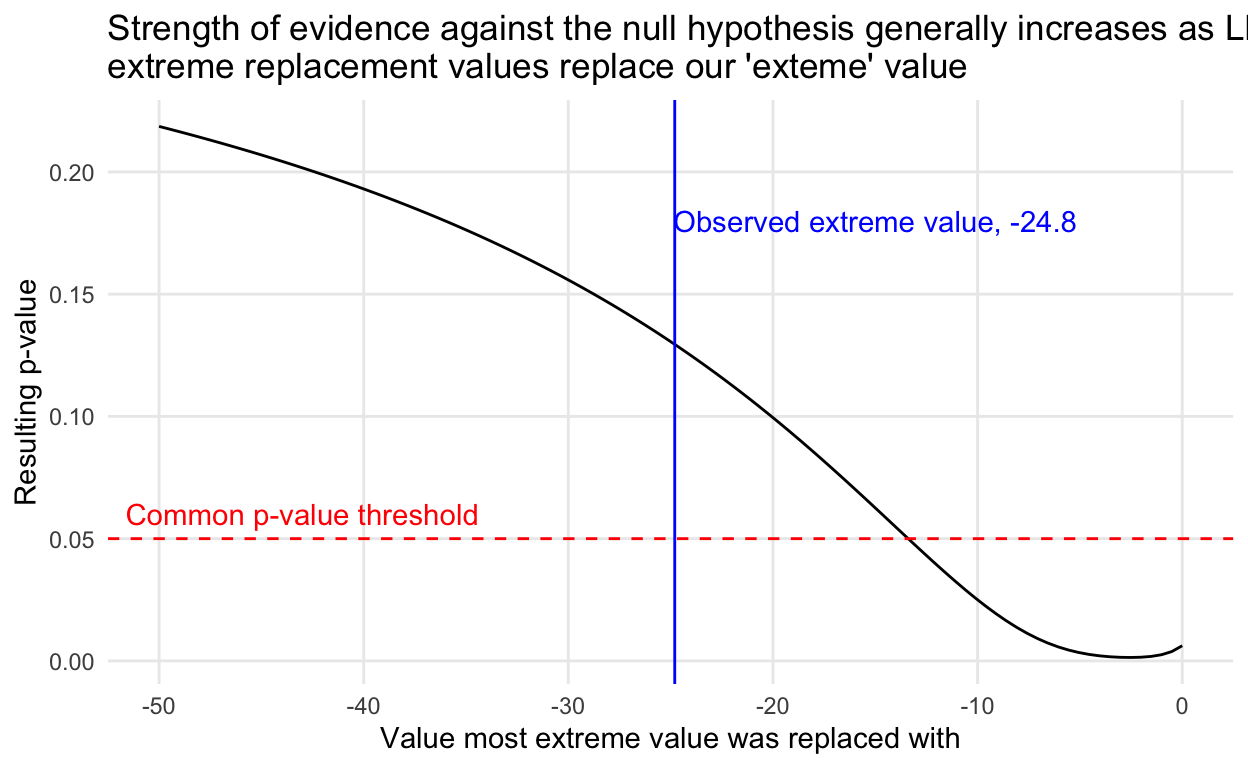
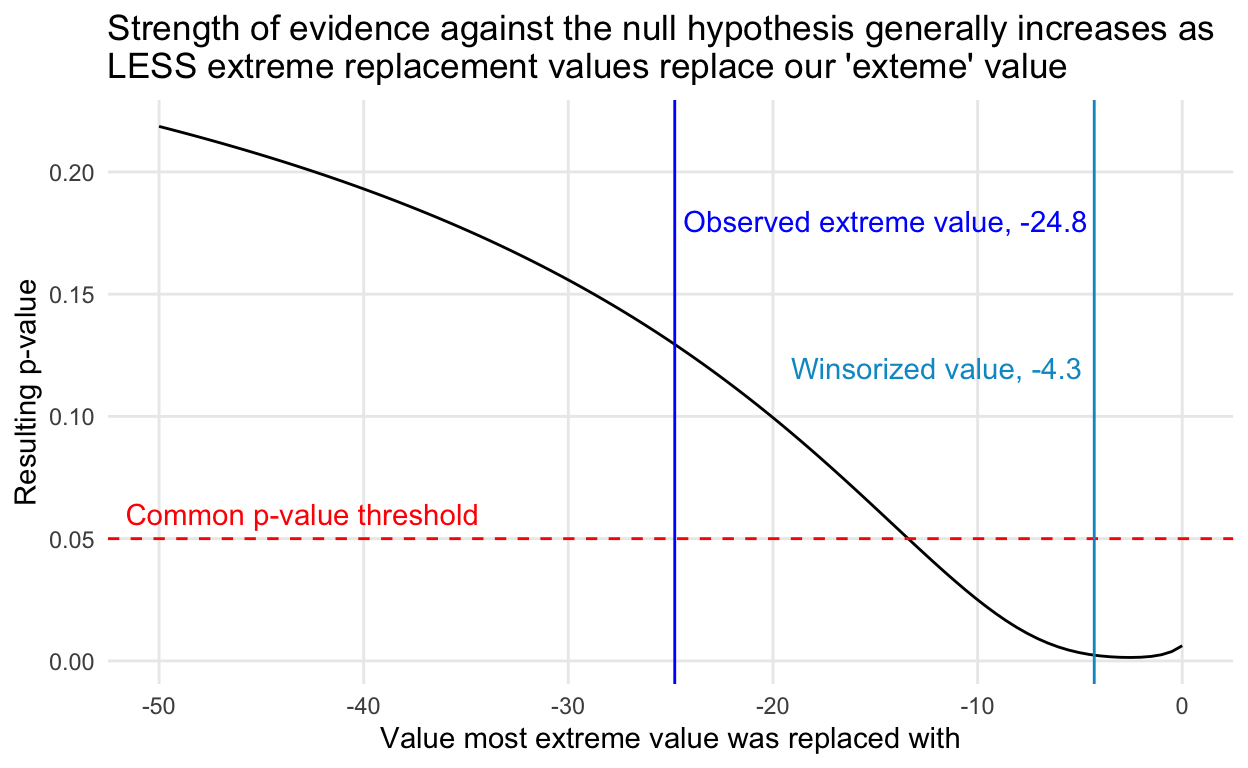
Update 2 on Chatfield

diff --git a/_posts/2021-09-26_chatfield490/chatfield490.html b/_posts/2021-09-26_chatfield490/chatfield490.html
@@ -116,7 +116,7 @@ code span.wa { color: #5e5e5e; font-style: italic; } /* Warning */
   <!--/radix_placeholder_rmarkdown_metadata-->
   
   <script type="text/json" id="radix-resource-manifest">
-  {"type":"character","attributes":{},"value":["chatfield490_files/anchor-4.2.2/anchor.min.js","chatfield490_files/bowser-1.9.3/bowser.min.js","chatfield490_files/distill-2.2.21/template.v2.js","chatfield490_files/figure-html5/unnamed-chunk-11-1.png","chatfield490_files/figure-html5/unnamed-chunk-12-1.png","chatfield490_files/figure-html5/unnamed-chunk-6-1.png","chatfield490_files/header-attrs-2.10.1/header-attrs.js","chatfield490_files/jquery-3.6.0/jquery-3.6.0.js","chatfield490_files/jquery-3.6.0/jquery-3.6.0.min.js","chatfield490_files/jquery-3.6.0/jquery-3.6.0.min.map","chatfield490_files/kePrint-0.0.1/kePrint.js","chatfield490_files/lightable-0.0.1/lightable.css","chatfield490_files/popper-2.6.0/popper.min.js","chatfield490_files/tippy-6.2.7/tippy-bundle.umd.min.js","chatfield490_files/tippy-6.2.7/tippy-light-border.css","chatfield490_files/tippy-6.2.7/tippy.css","chatfield490_files/tippy-6.2.7/tippy.umd.min.js","chatfield490_files/webcomponents-2.0.0/webcomponents.js","images/mohamed-nohassi-odxB5oIG_iA-unsplash.jpg"]}
+  {"type":"character","attributes":{},"value":["chatfield490_files/anchor-4.2.2/anchor.min.js","chatfield490_files/bowser-1.9.3/bowser.min.js","chatfield490_files/distill-2.2.21/template.v2.js","chatfield490_files/figure-html5/unnamed-chunk-11-1.png","chatfield490_files/figure-html5/unnamed-chunk-12-1.png","chatfield490_files/figure-html5/unnamed-chunk-13-1.png","chatfield490_files/figure-html5/unnamed-chunk-6-1.png","chatfield490_files/header-attrs-2.10.1/header-attrs.js","chatfield490_files/jquery-3.6.0/jquery-3.6.0.js","chatfield490_files/jquery-3.6.0/jquery-3.6.0.min.js","chatfield490_files/jquery-3.6.0/jquery-3.6.0.min.map","chatfield490_files/kePrint-0.0.1/kePrint.js","chatfield490_files/lightable-0.0.1/lightable.css","chatfield490_files/popper-2.6.0/popper.min.js","chatfield490_files/tippy-6.2.7/tippy-bundle.umd.min.js","chatfield490_files/tippy-6.2.7/tippy-light-border.css","chatfield490_files/tippy-6.2.7/tippy.css","chatfield490_files/tippy-6.2.7/tippy.umd.min.js","chatfield490_files/webcomponents-2.0.0/webcomponents.js","images/mohamed-nohassi-odxB5oIG_iA-unsplash.jpg"]}
   </script>
   <!--radix_placeholder_navigation_in_header-->
   <!--/radix_placeholder_navigation_in_header-->
@@ -1830,7 +1830,11 @@ Winsorized
 <div class="layout-chunk" data-layout="l-body">
 <p><img src="chatfield490_files/figure-html5/unnamed-chunk-12-1.png" width="624" /></p>
 </div>
-<p><strong>Practice question:</strong> Can you calculate the exact value for the minimum standard deviation?</p>
+<p><strong>Practice question:</strong> Can you calculate the value for the minimum standard deviation?</p>
+<p>Another way to look at this is through the other side of the p-value coin, the good ol’ confidence interval.</p>
+<div class="layout-chunk" data-layout="l-body">
+<p><img src="chatfield490_files/figure-html5/unnamed-chunk-13-1.png" width="624" /></p>
+</div>
 <h1 id="in-case-you-want-to-play-more">In case you want to play more</h1>
 <div class="layout-chunk" data-layout="l-body">
 <div class="sourceCode">

diff --git a/docs/posts/2021-09-26_chatfield490/index.html b/docs/posts/2021-09-26_chatfield490/index.html
@@ -129,7 +129,7 @@ code span.wa { color: #5e5e5e; font-style: italic; } /* Warning */
 <!--/radix_placeholder_rmarkdown_metadata-->
   
   <script type="text/json" id="radix-resource-manifest">
-  {"type":"character","attributes":{},"value":["chatfield490_files/anchor-4.2.2/anchor.min.js","chatfield490_files/bowser-1.9.3/bowser.min.js","chatfield490_files/distill-2.2.21/template.v2.js","chatfield490_files/figure-html5/unnamed-chunk-11-1.png","chatfield490_files/figure-html5/unnamed-chunk-12-1.png","chatfield490_files/figure-html5/unnamed-chunk-6-1.png","chatfield490_files/header-attrs-2.10.1/header-attrs.js","chatfield490_files/jquery-3.6.0/jquery-3.6.0.js","chatfield490_files/jquery-3.6.0/jquery-3.6.0.min.js","chatfield490_files/jquery-3.6.0/jquery-3.6.0.min.map","chatfield490_files/kePrint-0.0.1/kePrint.js","chatfield490_files/lightable-0.0.1/lightable.css","chatfield490_files/popper-2.6.0/popper.min.js","chatfield490_files/tippy-6.2.7/tippy-bundle.umd.min.js","chatfield490_files/tippy-6.2.7/tippy-light-border.css","chatfield490_files/tippy-6.2.7/tippy.css","chatfield490_files/tippy-6.2.7/tippy.umd.min.js","chatfield490_files/webcomponents-2.0.0/webcomponents.js","images/mohamed-nohassi-odxB5oIG_iA-unsplash.jpg"]}
+  {"type":"character","attributes":{},"value":["chatfield490_files/anchor-4.2.2/anchor.min.js","chatfield490_files/bowser-1.9.3/bowser.min.js","chatfield490_files/distill-2.2.21/template.v2.js","chatfield490_files/figure-html5/unnamed-chunk-11-1.png","chatfield490_files/figure-html5/unnamed-chunk-12-1.png","chatfield490_files/figure-html5/unnamed-chunk-13-1.png","chatfield490_files/figure-html5/unnamed-chunk-6-1.png","chatfield490_files/header-attrs-2.10.1/header-attrs.js","chatfield490_files/jquery-3.6.0/jquery-3.6.0.js","chatfield490_files/jquery-3.6.0/jquery-3.6.0.min.js","chatfield490_files/jquery-3.6.0/jquery-3.6.0.min.map","chatfield490_files/kePrint-0.0.1/kePrint.js","chatfield490_files/lightable-0.0.1/lightable.css","chatfield490_files/popper-2.6.0/popper.min.js","chatfield490_files/tippy-6.2.7/tippy-bundle.umd.min.js","chatfield490_files/tippy-6.2.7/tippy-light-border.css","chatfield490_files/tippy-6.2.7/tippy.css","chatfield490_files/tippy-6.2.7/tippy.umd.min.js","chatfield490_files/webcomponents-2.0.0/webcomponents.js","images/mohamed-nohassi-odxB5oIG_iA-unsplash.jpg"]}
   </script>
   <!--radix_placeholder_navigation_in_header-->
 <meta name="distill:offset" content="../.."/>
@@ -2846,7 +2846,11 @@ Winsorized
 <div class="layout-chunk" data-layout="l-body">
 <p><img src="chatfield490_files/figure-html5/unnamed-chunk-12-1.png" width="624" /></p>
 </div>
-<p><strong>Practice question:</strong> Can you calculate the exact value for the minimum standard deviation?</p>
+<p><strong>Practice question:</strong> Can you calculate the value for the minimum standard deviation?</p>
+<p>Another way to look at this is through the other side of the p-value coin, the good ol’ confidence interval.</p>
+<div class="layout-chunk" data-layout="l-body">
+<p><img src="chatfield490_files/figure-html5/unnamed-chunk-13-1.png" width="624" /></p>
+</div>
 <h1 id="in-case-you-want-to-play-more">In case you want to play more</h1>
 <div class="layout-chunk" data-layout="l-body">
 <div class="sourceCode">
